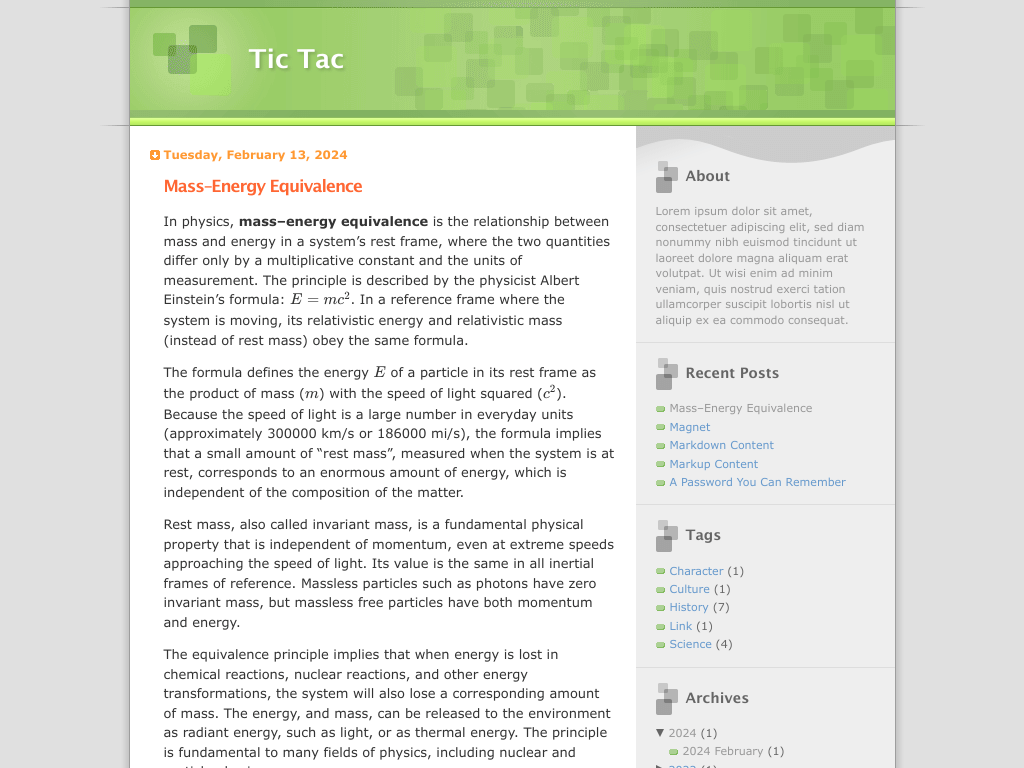
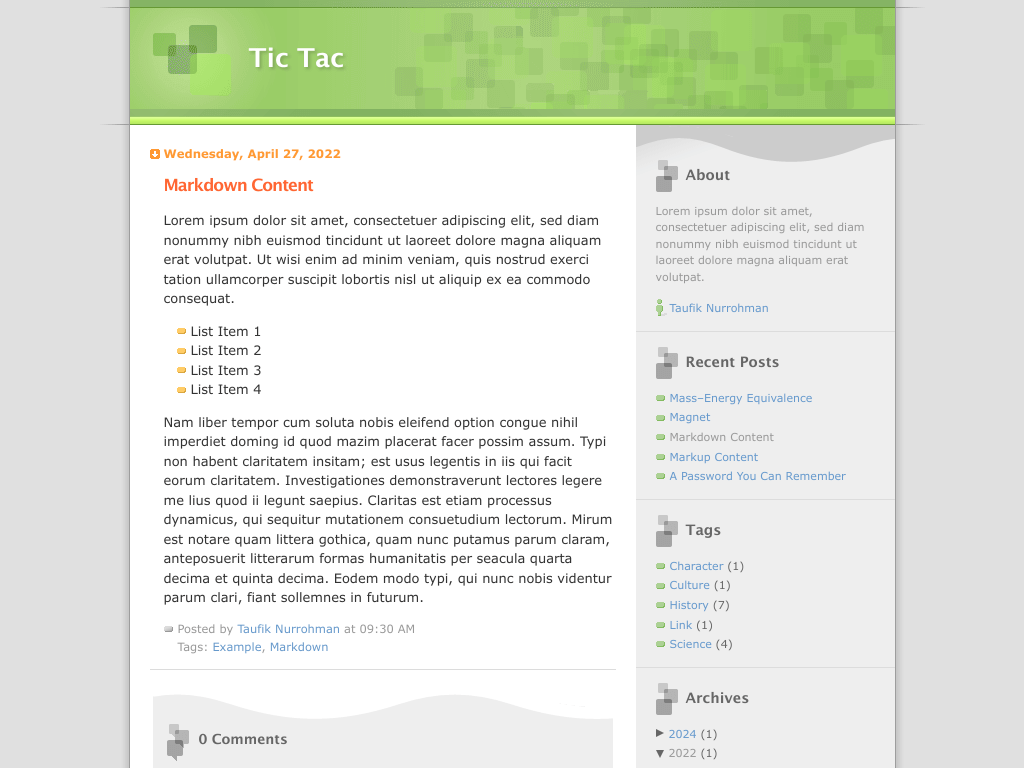
Update

diff --git a/index.min.css b/index.min.css
@@ -1,1 +1,1 @@
[2 lines of base64/hex data omitted]

diff --git a/index.css b/index.css
@@ -242,7 +242,9 @@ a[rel=author],
 [rel=author][role=link] {
   background: transparent var(--icon-author) no-repeat 0 50%;
   display: inline-block;
+  line-height: 17px;
   padding: 0 0 0 14px;
+  vertical-align: middle;
 }
 
 abbr {
@@ -599,7 +601,7 @@ textarea {
   background: #eee url("comments-top.gif") no-repeat 50% 0;
   color: #666;
   font-size: 85%;
-  margin: 14px 3px 3px;
+  margin: 24px 3px 3px;
   padding: 30px 14px 14px;
 }
 
@@ -685,7 +687,6 @@ body > div > header {
 body > div > header h1 {
   color: inherit;
   font-size: 200%;
-  line-height: 1.2em;
   margin: 0;
   padding: 45px 19px 50px 119px;
   text-shadow: var(--shadow-header-text);
@@ -713,7 +714,7 @@ body > div > nav {
   background-repeat: no-repeat, repeat-y;
   color: var(--color-nav);
   font-family: var(--face-2);
-  line-height: 2.7rem;
+  line-height: 2.5rem;
   margin: 0;
   padding: 0 41px;
   text-align: center;
@@ -767,7 +768,6 @@ body > div > nav + div > aside {
   margin: 0;
   padding: 20px;
   width: 259px;
-  line-height: 1.4em;
 }
 body > div > header + div > aside > div,
 body > div > nav + div > aside > div {
@@ -867,7 +867,9 @@ body > div > nav + div > main > article > footer a[rel=author],
 body > div > nav + div > main > article > footer [rel=author][role=link] {
   background: 0 0;
   display: inline;
+  line-height: inherit;
   padding: 0;
+  vertical-align: baseline;
 }
 body > div > header + div > main > article > header,
 body > div > nav + div > main > article > header {
@@ -982,7 +984,7 @@ body > div > nav + div > main > article + nav {
   --header: url("header-bottom/blue.gif"), url("header-top/blue.gif"), url("header-center/blue.gif");
[6 lines of base64/hex data omitted]
   --nav: url("nav-bottom/blue.gif"), url("nav-center/blue.gif");

diff --git a/.factory/_skin/blue.scss b/.factory/_skin/blue.scss
@@ -31,7 +31,7 @@
     --header: url('header-bottom/blue.gif'), url('header-top/blue.gif'), url('header-center/blue.gif');
[6 lines of base64/hex data omitted]
     --nav: url('nav-bottom/blue.gif'), url('nav-center/blue.gif');

diff --git a/.factory/index.css.scss b/.factory/index.css.scss
@@ -184,7 +184,9 @@ a {
   &[rel='author'] {
     background: transparent var(--icon-author) no-repeat 0 50%;
     display: inline-block;
+    line-height: 17px;
     padding: 0 0 0 14px;
+    vertical-align: middle;
   }
 }
 
@@ -639,7 +641,6 @@ body {
         font: {
           size: 200%;
         }
-        line-height: 1.2em;
         margin: 0;
         padding: 45px 19px 50px 119px;
         text-shadow: var(--shadow-header-text);
@@ -664,7 +665,7 @@ body {
       }
       color: var(--color-nav);
       font-family: var(--face-2);
-      line-height: 2.7rem;
+      line-height: 2.5rem;
       margin: 0;
       padding: 0 41px;
       text-align: center;
@@ -713,7 +714,6 @@ body {
           margin: 0;
           padding: 20px;
           width: 259px;
-          line-height: 1.4em;
           > div {
             border: {
               bottom: 1px solid;
@@ -795,7 +795,9 @@ body {
                 &[rel='author'] {
                   background: 0 0;
                   display: inline;
+                  line-height: inherit;
                   padding: 0;
+                  vertical-align: baseline;
                 }
               }
             }

diff --git a/.factory/_x/comment.scss b/.factory/_x/comment.scss
@@ -56,7 +56,7 @@
     background: #eee url('comments-top.gif') no-repeat 50% 0;
     color: #666;
     font-size: 85%;
-    margin: 14px 3px 3px;
+    margin: 24px 3px 3px;
     padding: 30px 14px 14px;
   }
 }

diff --git a/aside.php b/aside.php
@@ -1,8 +1,10 @@
 <aside>
-  <?php if ($description = $site->description): ?>
+  <?php if ($description = $page->description ?? $site->description): ?>
+    <?php $author = $page->author; ?>
+    <?php $author = $author instanceof User ? '<a href="' . eat($author->link ?? $author->url) . '" rel="author">' . $author . '</a>' : ""; ?>
     <?= self::widget([
-        'content' => '<p>' . $description . '</p>',
-        'title' => i('About'),
+        'content' => '<p>' . $description . '</p>' . ($author ? '<p>' . $author . '</p>' : ""),
+        'title' => i('About')
     ]); ?>
   <?php endif; ?>
   <?= self::widget('form/search'); ?>
